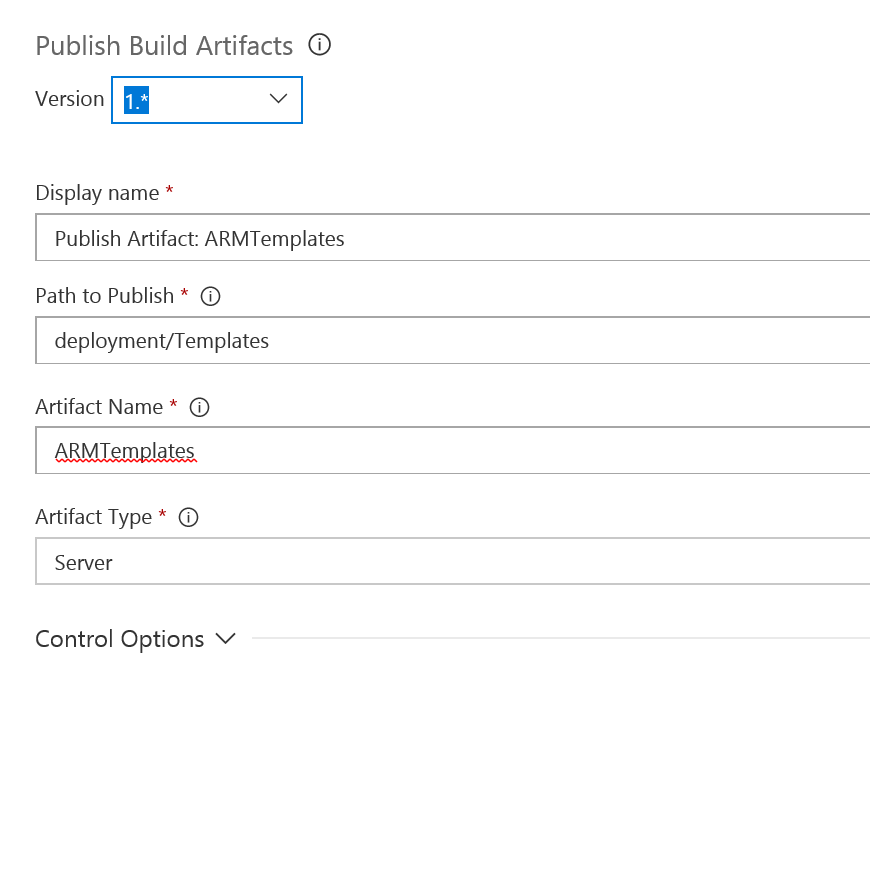
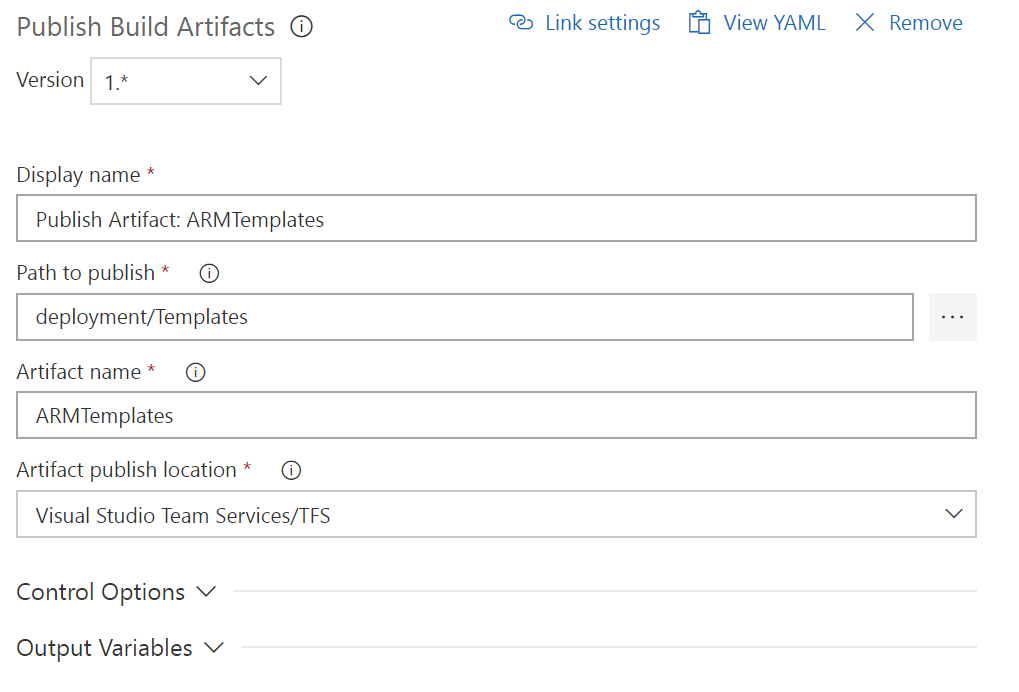
Updated lab 6 with screenshot and text changes

diff --git a/docs/Infrastructure_as_code/LabDescription.md b/docs/Infrastructure_as_code/LabDescription.md
@@ -75,7 +75,7 @@ Configure it as follows:
 
 * For `Path to Publish`, click the "..." button and browse to the deployment/Templates folder
 * For `Artifact Name`, enter "ARMTemplates"
-* For `Artifact Type`, select "Server"
+* For `Artifact publish location`, select "Visual Studio Team Services/TFS"
 
 ### Step 4
 
